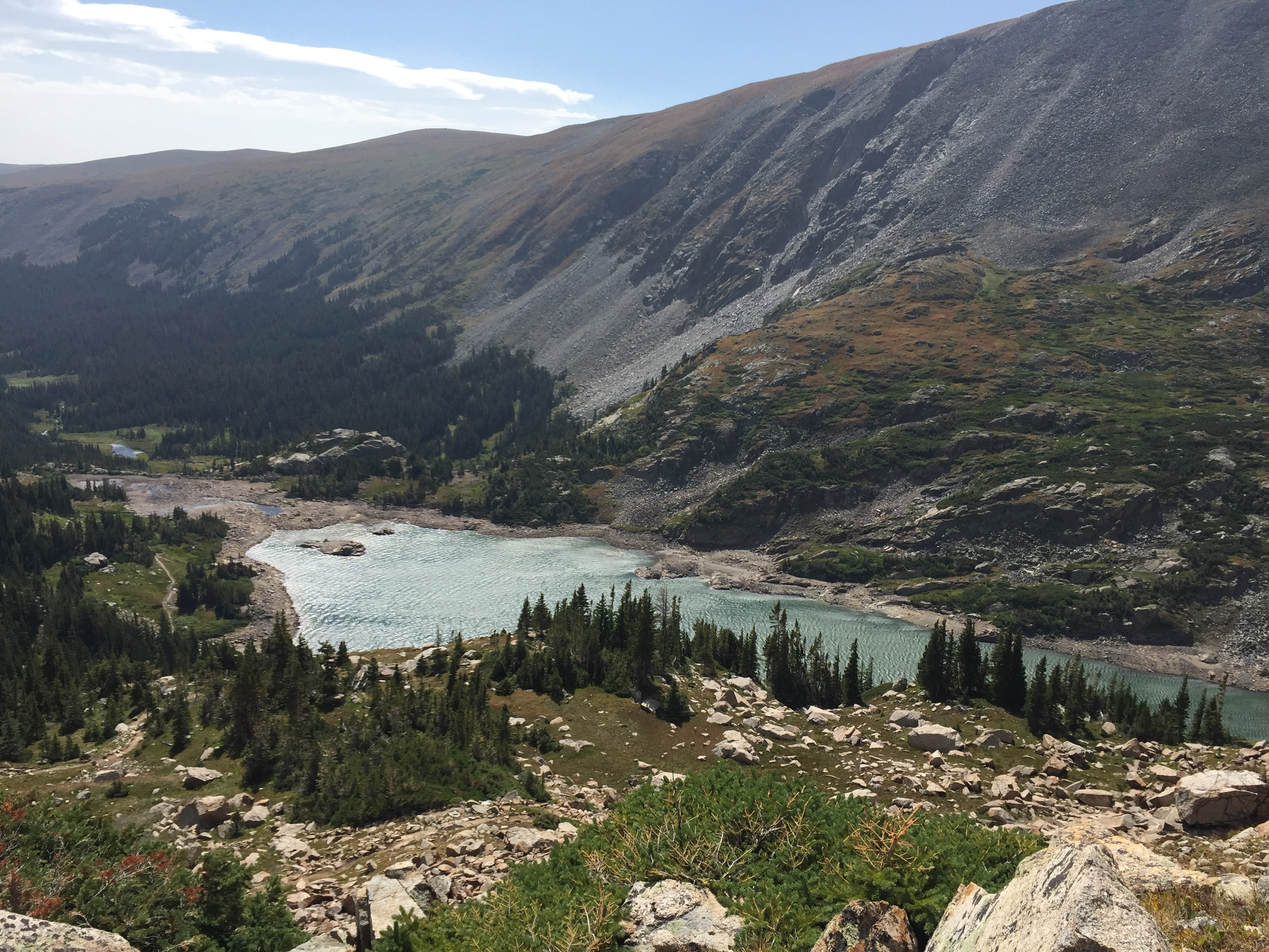
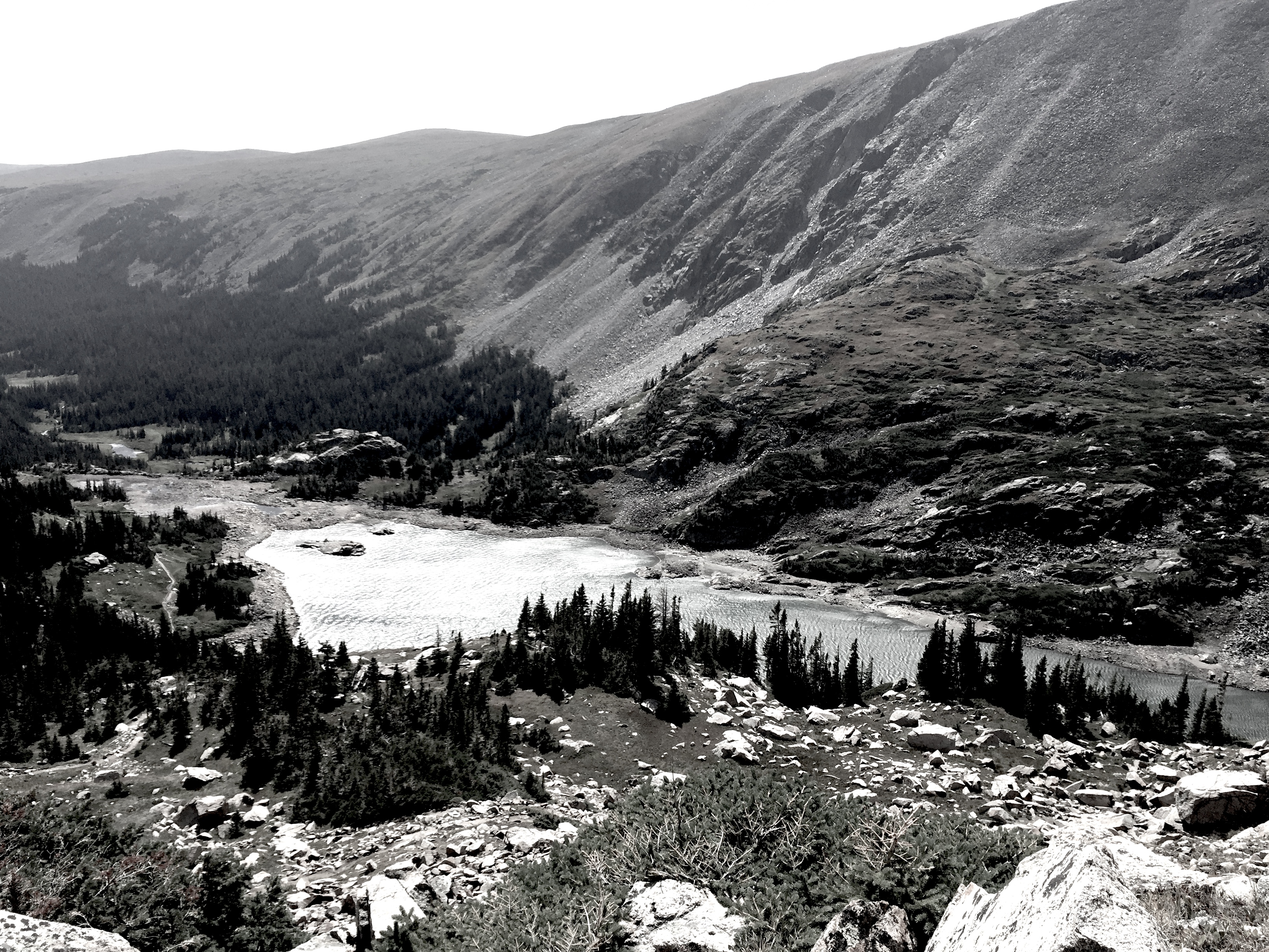
greyscaled portfolio and added screenshots

diff --git a/portfolio.html b/portfolio.html
@@ -10,8 +10,8 @@
   <script src="https://maxcdn.bootstrapcdn.com/bootstrap/3.3.7/js/bootstrap.min.js"></script>
   <style>
     body{
-          background-image: url("images/lake-isabell.jpg");
-          background-size: cover;
+          background-image: url("images/Forest-in-greyscale.jpg");
+          background-size: auto;
           font-size: 16px;
       }
       .jumbotron{
@@ -27,13 +27,14 @@
         font-size: 16px;
       }
       p, h3{
+        background: rgba(10, 10, 10, 0.5);
         color: #f1f1f1;
       }
 
       .work img{
         width: 100%;
         height: 12em;
-        opacity: 0.6;
+        /* opacity: 0.6; */
       }
     /* Remove the navbar's default margin-bottom and rounded borders */ 
     .navbar {
@@ -105,23 +106,23 @@
   <div class="row">
     <div class="col-sm-3 work">
       <a href="https://workoutappsrevenge.herokuapp.com/"><p>The Workout App</p>
-      <img src="images/barbell.jpg" class="img-responsive" style="width:100%" alt="Image"></a>
+      <img src="images/Workoutapp-screenshot.png" class="img-responsive" style="width:100%" alt="Image"></a>
       <a href="https://github.com/smitty10010/workoutappsrevenge"><p>Just the code</p></a>
     </div>
     <div class="col-sm-3 work"> 
       <a href="https://smitty10010.github.io/team-5-project1/"><p>Crag</p>
-      <img src="images/rock-climber.jpeg" class="img-responsive" style="width:100%" alt="Image"></a>
+      <img src="images/crag-screenshot.png" class="img-responsive" style="width:100%" alt="Image"></a>
       <a href="https://github.com/smitty10010/team-5-project1"><p>Just the code</p></a>
     </div>
     <div class="col-sm-3 work"> 
       <a href= "https://blooming-island-62700.herokuapp.com/"><p>GOT Friend Finder</p>
-      <img src="images/GOTimage.jpeg" class="img-responsive" style="width:100%" alt="Image"></a>
+      <img src="images/got-screenshot.png" class="img-responsive" style="width:100%" alt="Image"></a>
       <a href="https://github.com/discopat1/Friend-finder-express"><p>Just the code</p></a>
     </div>
     <div class="col-sm-3 work">
-      <a href="https://pats-burger-app.herokuapp.com/"><p>Burgers!</p>
-      <img src="images/cartoon-burger.jpg" class="img-responsive" style="width:100%" alt="Image"></a>
-      <a href="https://github.com/discopat1/burger"><p>Just the code</p></a>
+      <a href="https://discopat1.github.io/TriviaGame/"><p>Anatomy and Phyisiology Trivia</p>
+      <img src="images/trivia-screenshot.png" class="img-responsive" style="width:100%" alt="Image"></a>
+      <a href="https://github.com/discopat1/TriviaGame/"><p>Just the code</p></a>
     </div>
   </div>
 </div><br>
